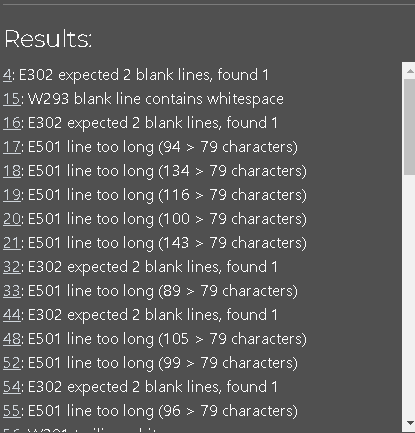
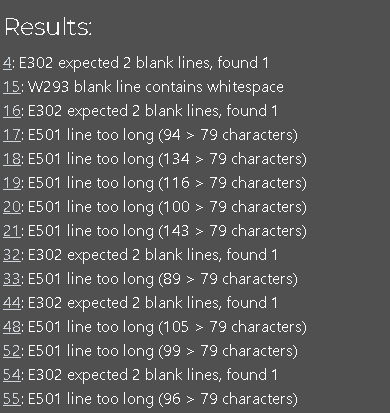
added edited linter images and rewrote this section

Changed region(s): [[0.0, 0.1453, 0.7692, 1.0], [0.9538, 0.1453, 1.0, 1.0], [0.0, 0.0291, 0.2462, 0.1162]]

diff --git a/run.py b/run.py
@@ -59,6 +59,7 @@ def welcome_message():
         print(ColorsGame.CYAN + instructions + ColorsGame.END)
         time.sleep(3)
 
+
 def display_game(tries, word_completion, guessed_letters):
     """ Displays game and is called in the play(word) function and
         the guessed letters

diff --git a/README.md b/README.md
@@ -167,7 +167,7 @@ Once I had completed the basic game structure which was working I have then adde
 
 ### Python
 
-- I have used CI Python Linter[Python Linter](https://pep8ci.herokuapp.com/)
+- I have used [CI Python Linter](https://pep8ci.herokuapp.com/)
 
 - I was given the following errors
 
@@ -176,13 +176,20 @@ Once I had completed the basic game structure which was working I have then adde
 ![Linter Errors](images/linter-three.png)
 ![Linter Errors](images/linter-four.png)
 
-- On the list of errors there was Line too long and issues with white space. 
+- E302 expected 2 blank lines, found 1
+    - To fix this I added another line, giving it the required 2 blank lines
 
-- To fix there errors I have readjusted the code/comments to fall within the parameters of 79 characters.
+- W293 blank line contacts whitespace
+    - Removed white space through the code
 
-- The process I followed was to fix one issue at a time on the linter to ensure the error was fixed and then made the change on the code itself. 
+- E501 line too long (91 > 79 characters)
+    - As you can see from the above images there was quite a few over, I adjusted all code onto new lines where required.
 
-- Once complete I re ran the test to ensure it passed. 
+- W292 no newline at end of file
+    - Added new line at the end of the file
+
+- E128 continuation line under-indented for visual indent
+    - fixed indentation issue on linter and then adjusted on the run.py file
 
 ![Linter No Errors](images/linter-fixed.png)
 
